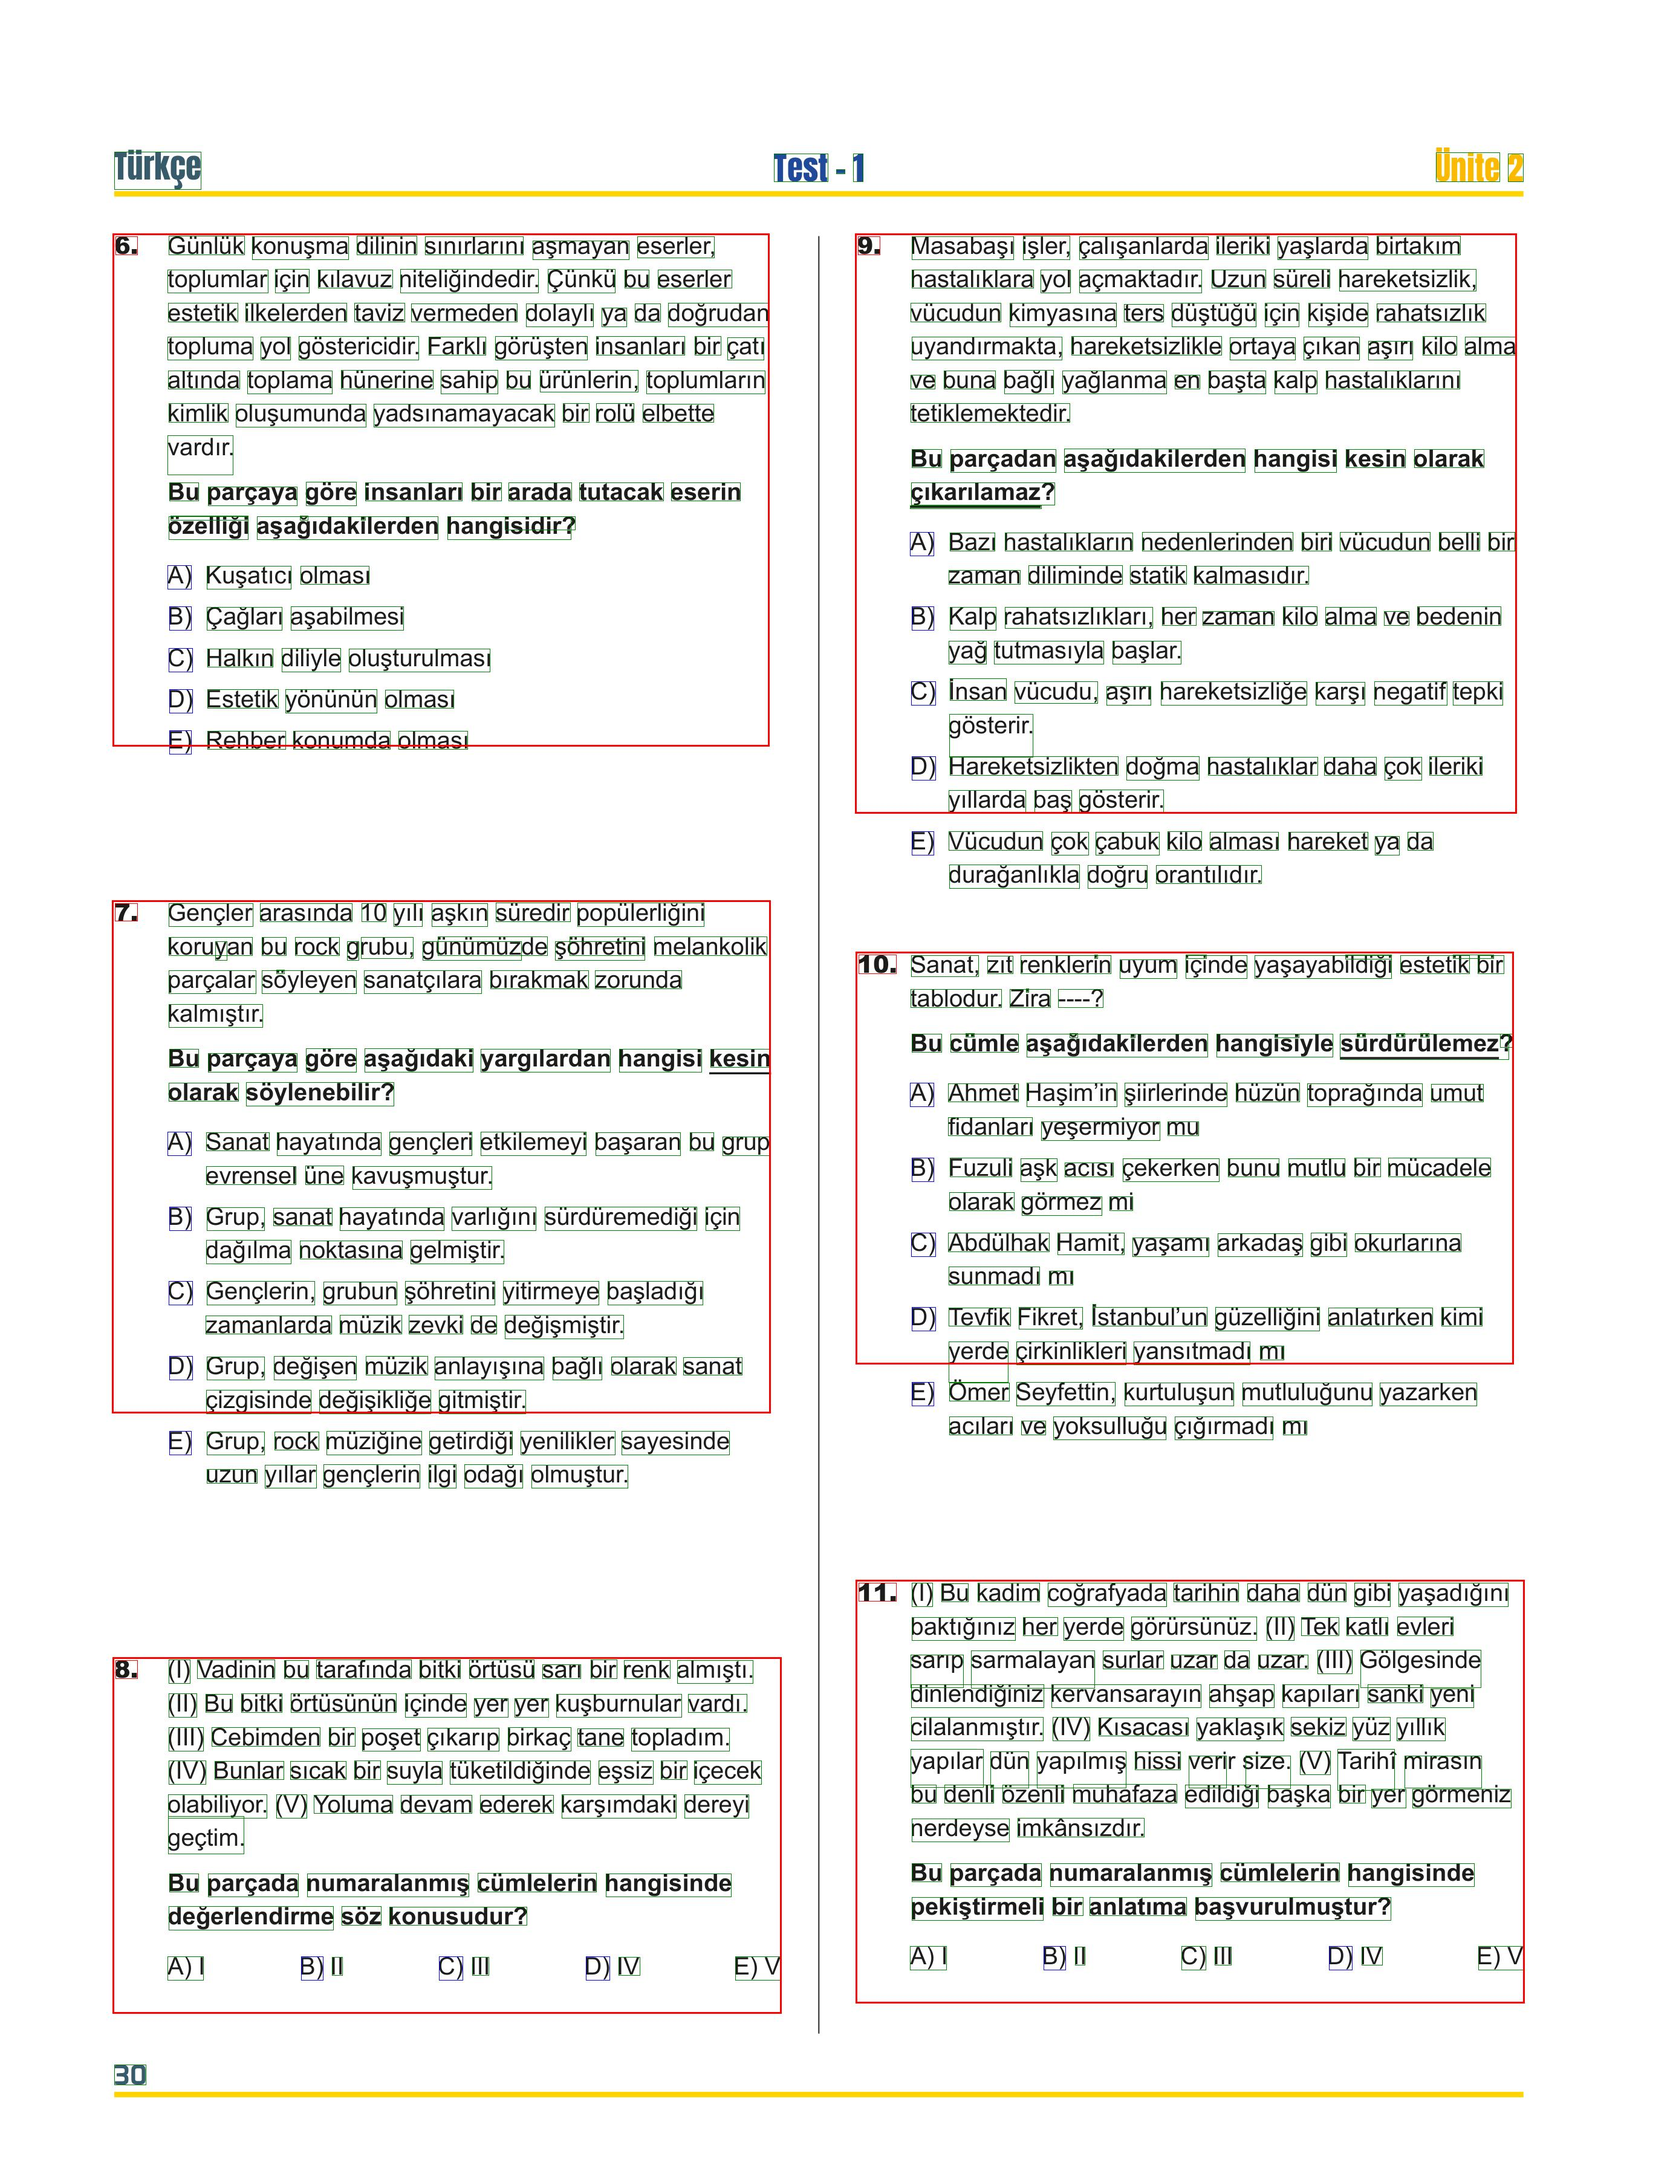
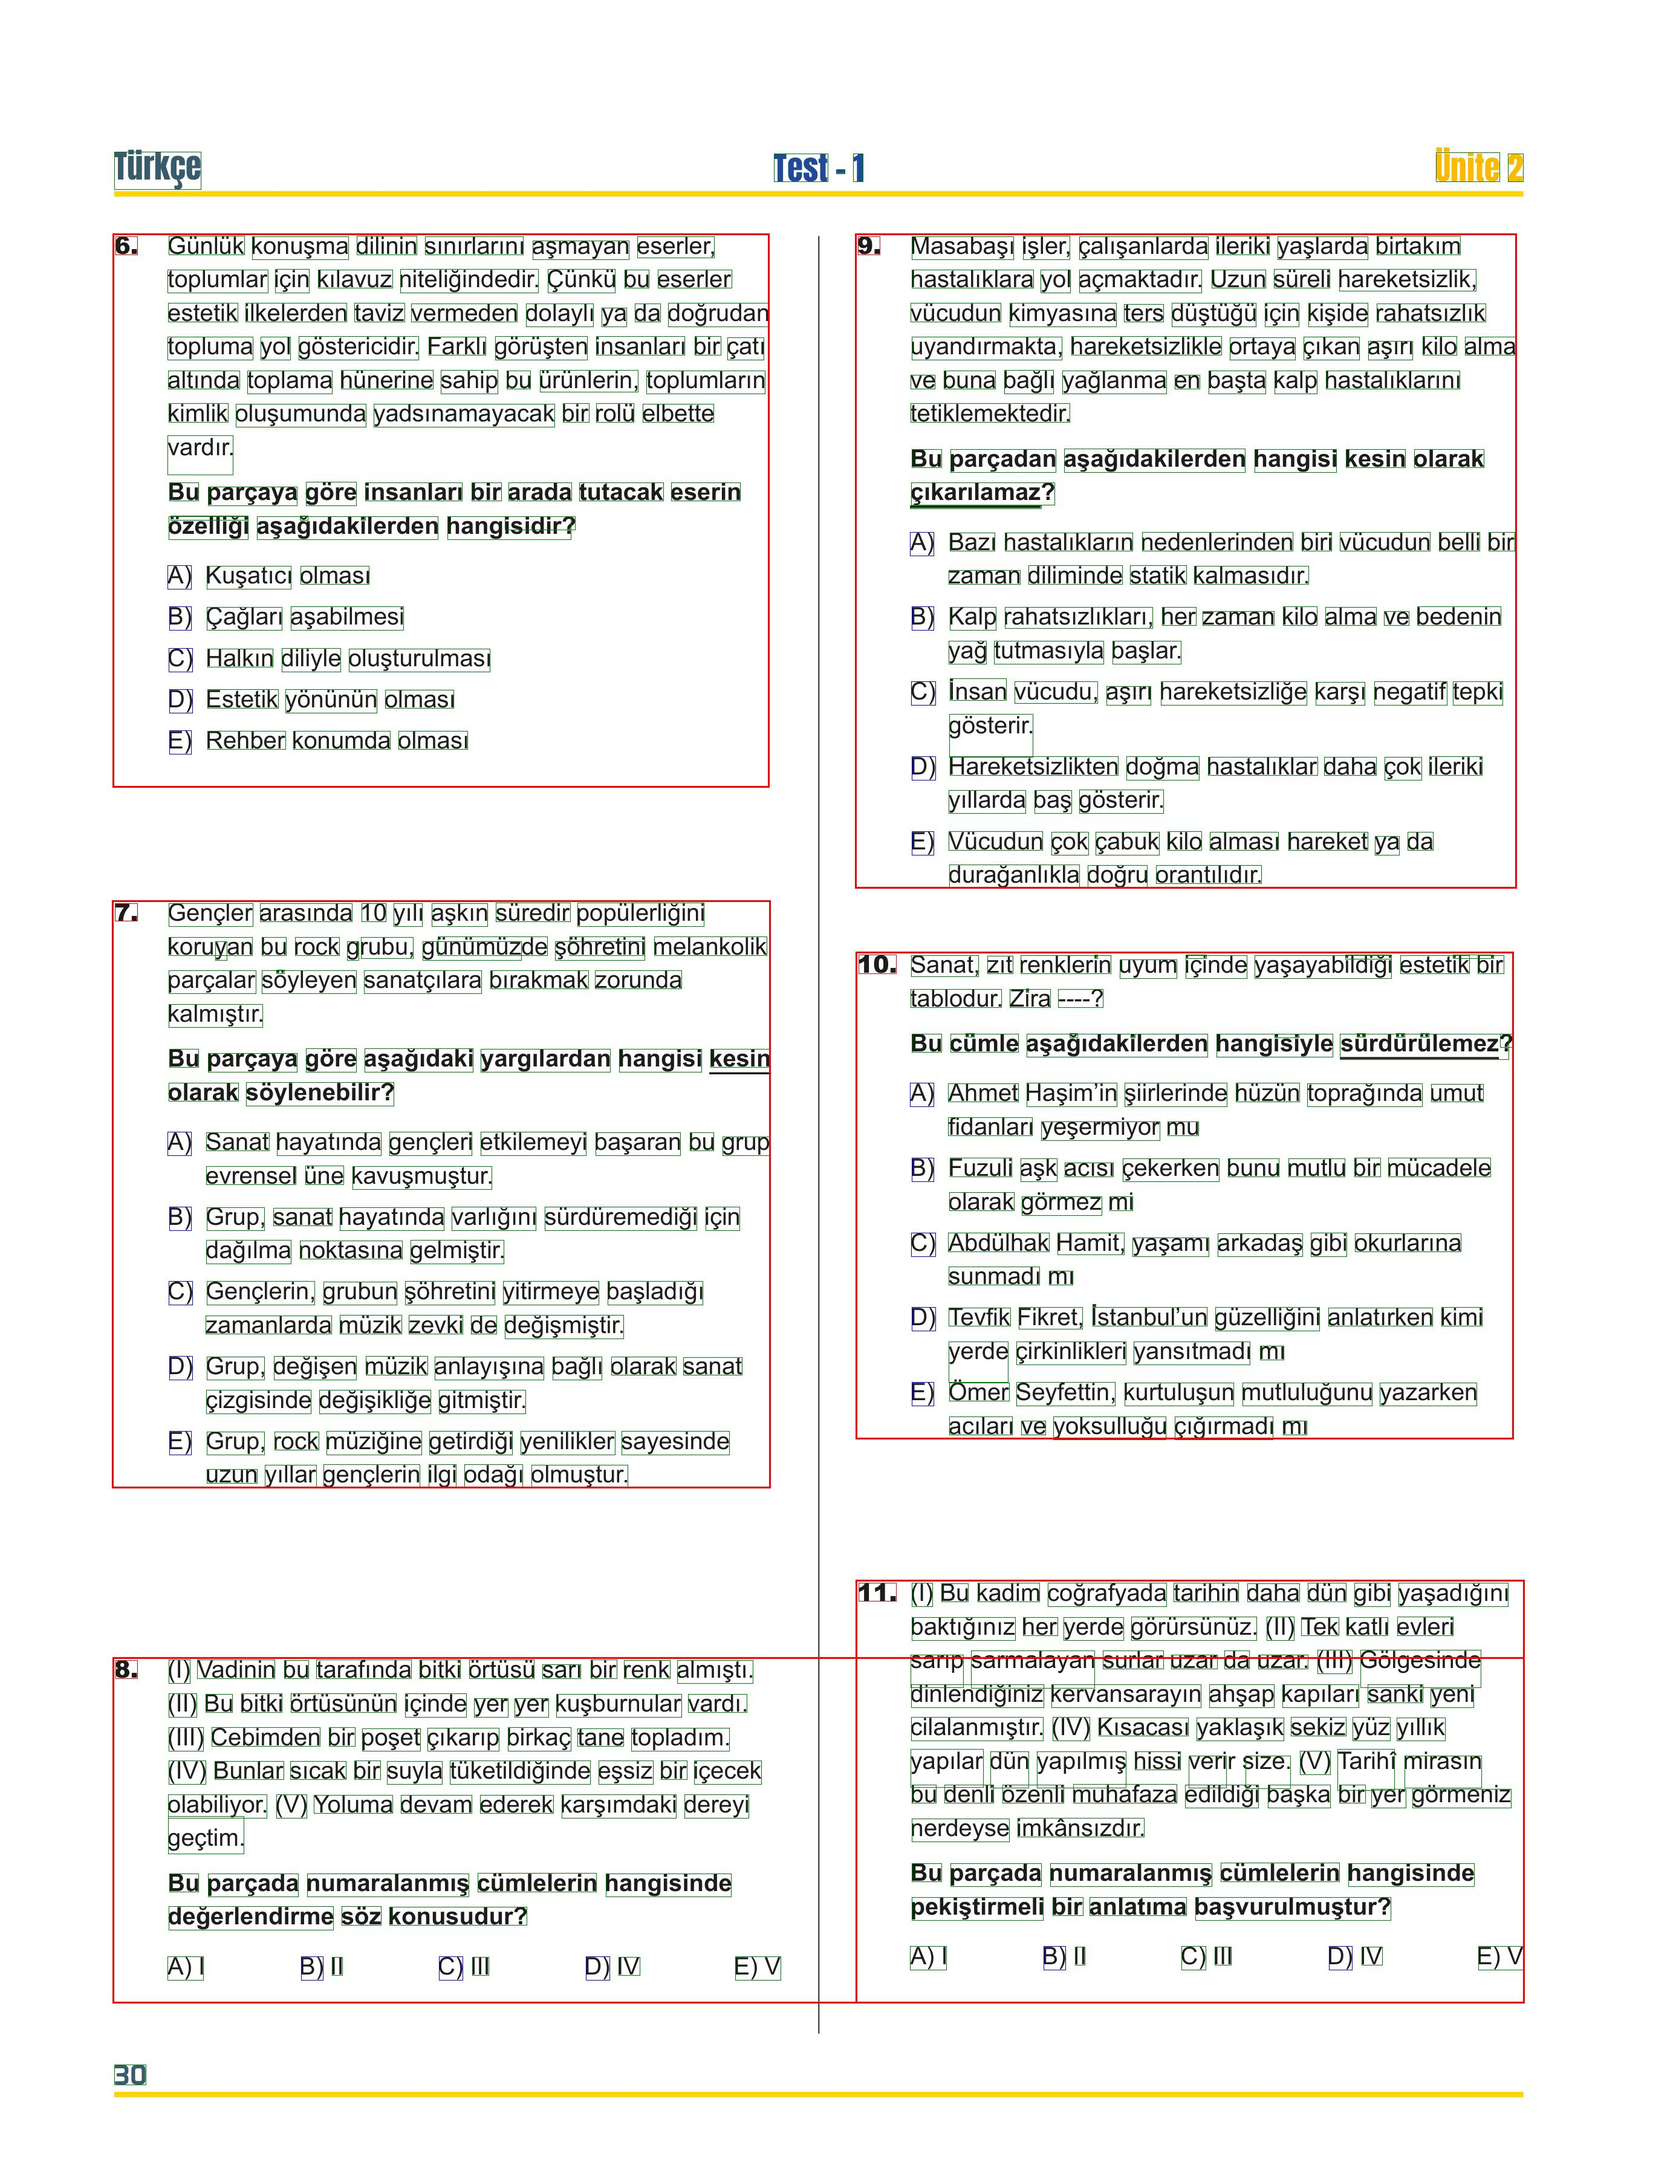
Fixed - last option not detected

diff --git a/main_file.py b/main_file.py
@@ -240,10 +240,13 @@ with pdfplumber.open(pdf_path) as pdf:
                                       nexVerticallyQuestionY)
                     detect_question[item] = (x0, y0, x1, y1)
         number_of_included_option = 0
+        have_last_option = False
         for detected_options_item in detected_options_box:
             for option_item in detected_options_item:
                 if is_in_the_region(detect_question[item], detected_options_item[option_item]):
                     number_of_included_option = number_of_included_option + 1
+                    nexVerticallyQuestionY = detected_options_item[option_item][3]
+
                     if option_item == last_option:
                         nexVerticallyQuestionY = detected_options_item[option_item][3]
                         x0, y0, x1, y1 = (detect_question[item][0], detect_question[item][1],
